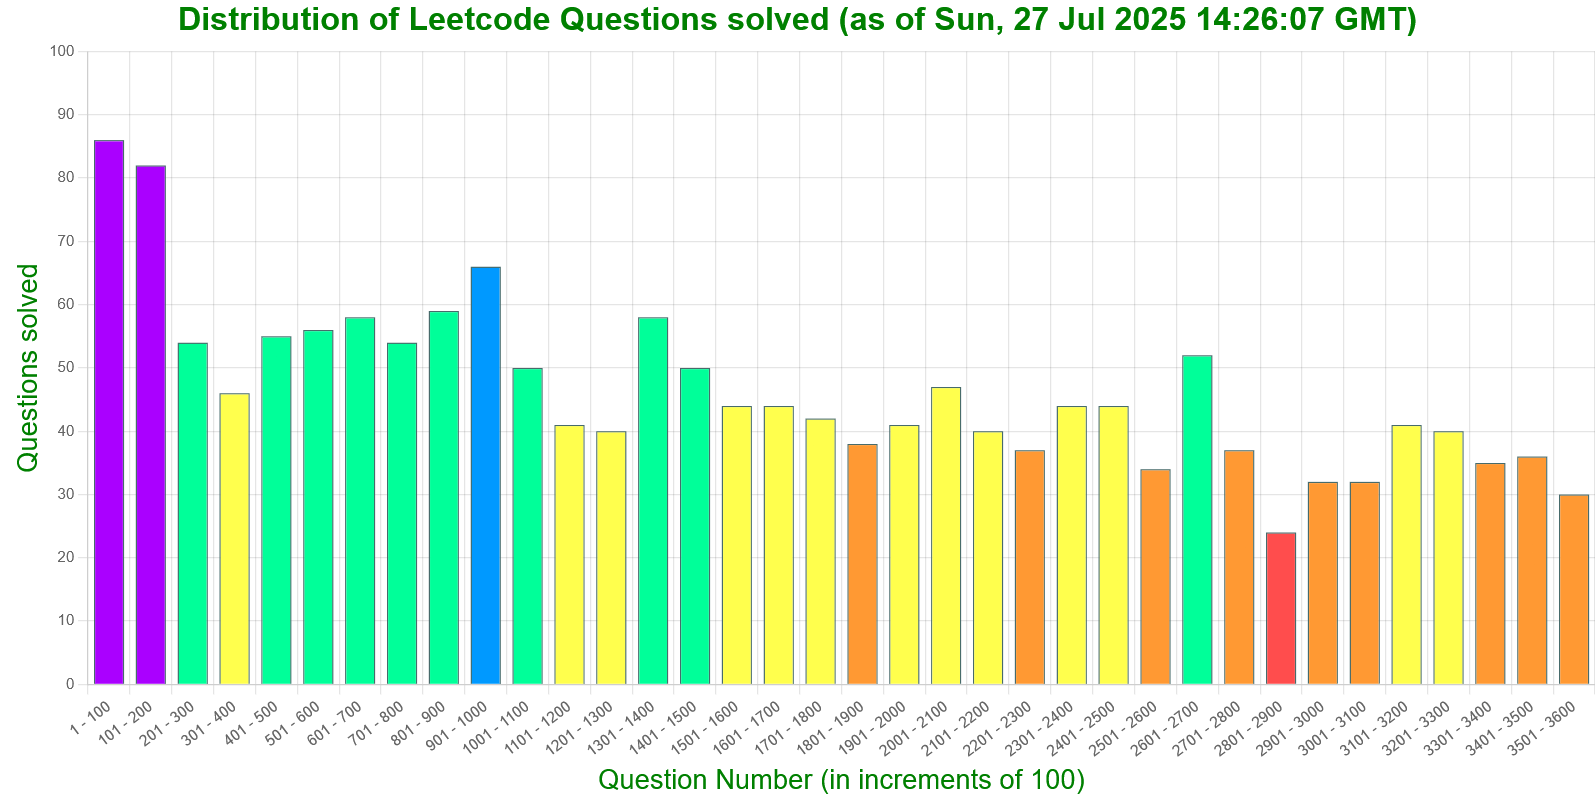
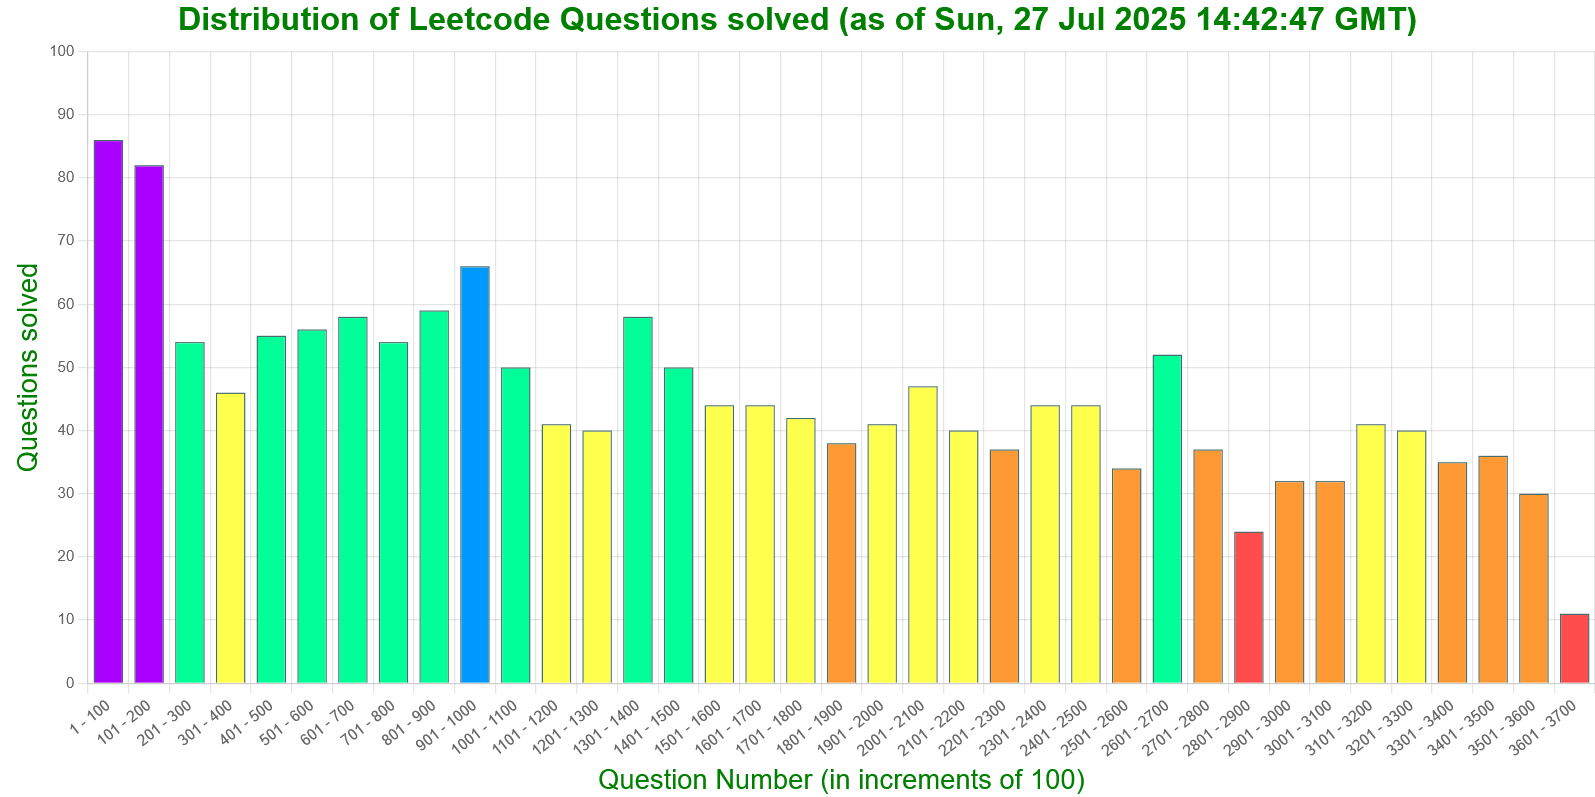
updated stats

diff --git a/stats/chart-generator/main.js b/stats/chart-generator/main.js
@@ -1785,7 +1785,7 @@ const arr = [
 // ------------ DATA ARRAY END ------------ //
 
 // ****** please UPDATE before using ****** // 
-const maxQuesId = 3548
+const maxQuesId = arr.reduce((acc, curr) => Math.max(acc, curr.quesId), 0)
 
 function loadPieChart1(){
   const solved = arr.reduce((acc, {acceptedCount}) => acc += acceptedCount !== '0', 0)
